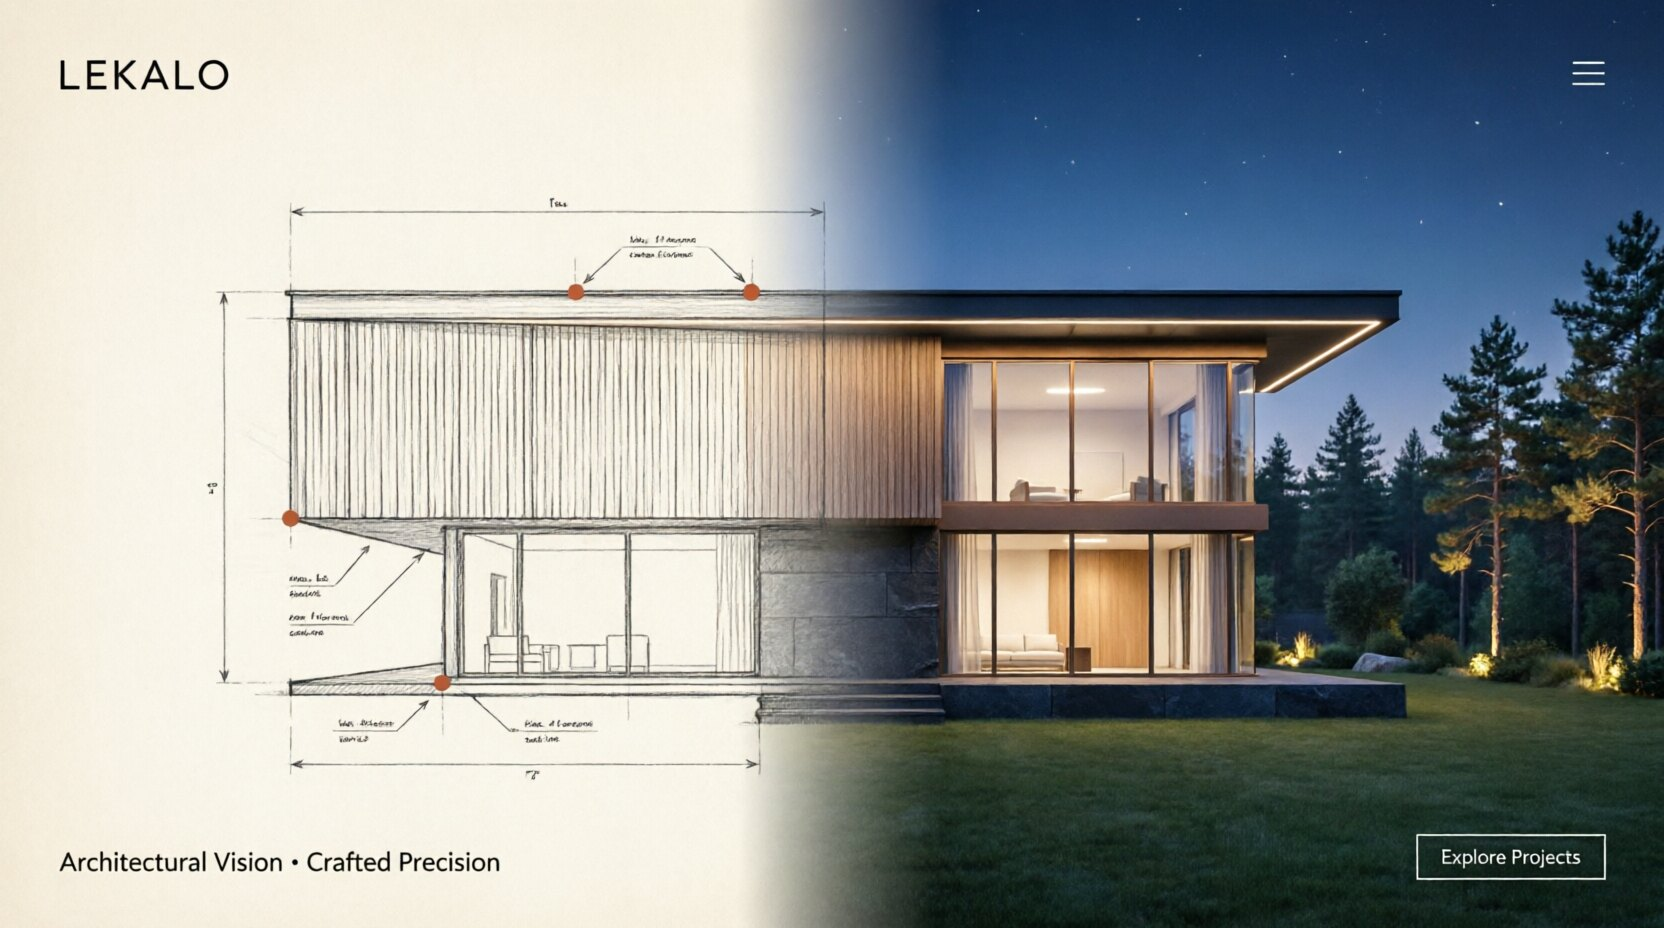
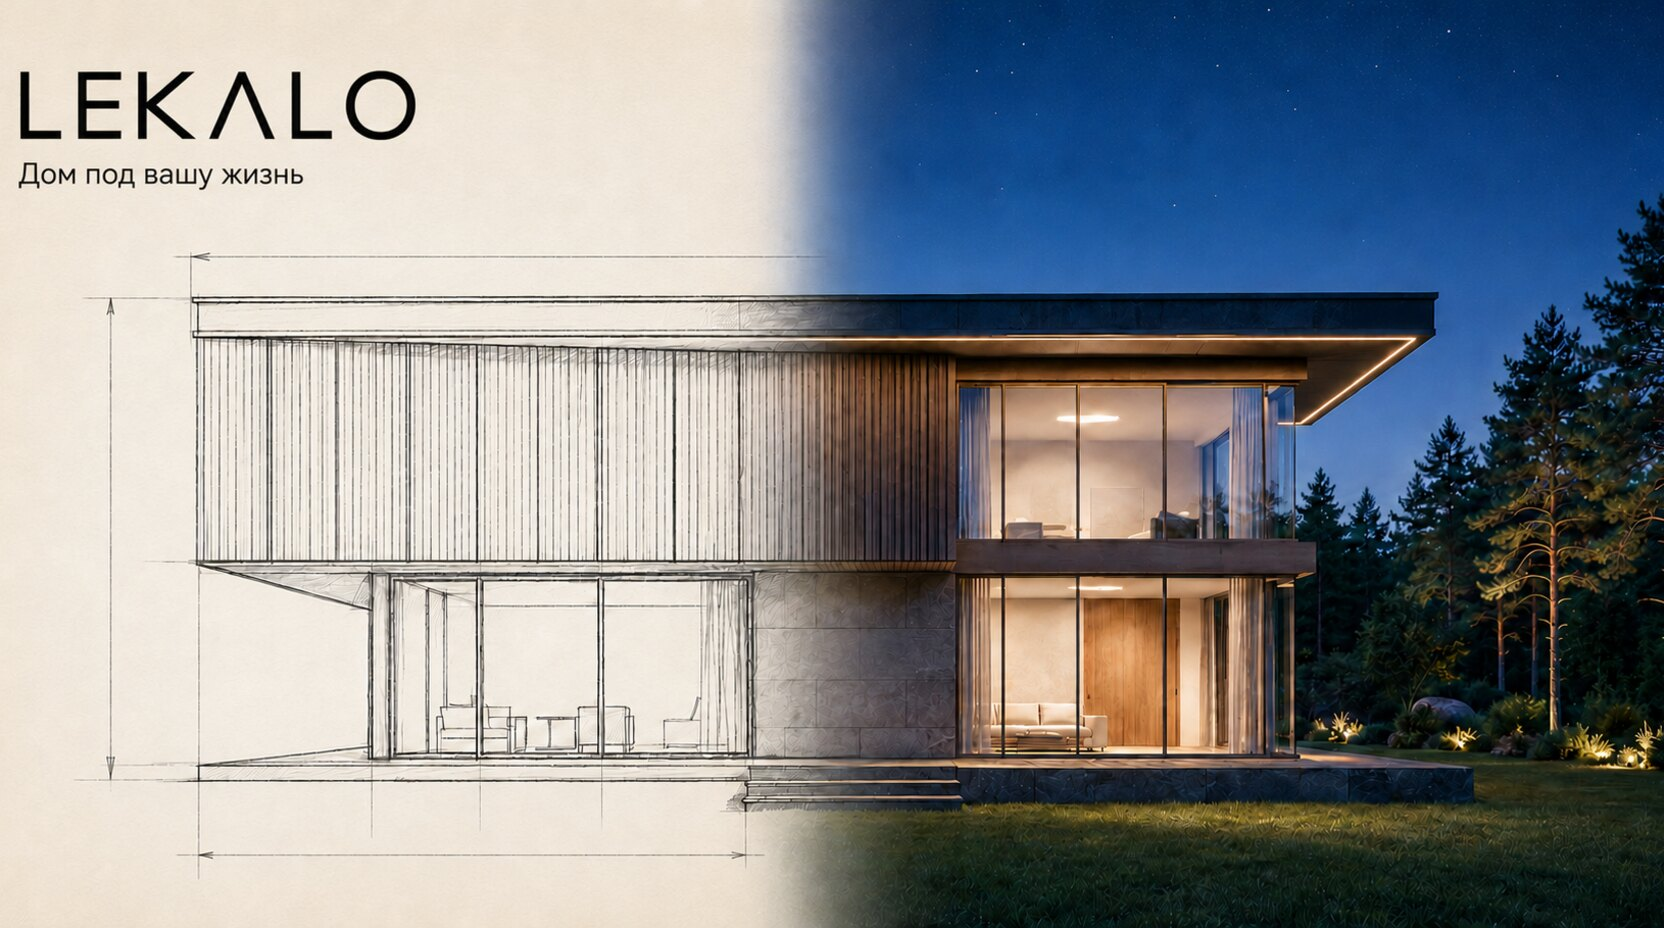
Restore original Telegram preview contract

diff --git a/index.html b/index.html
@@ -24,18 +24,11 @@
   <meta property="og:title" content="LEKALO — частная архитектура и управление строительством">
   <meta property="og:description" content="Индивидуальные загородные дома в Москве и Московской области — от архитектурной концепции до реализации одной командой.">
   <meta property="og:url" content="https://lklo.ru/">
-  <meta property="og:image" content="https://lklo.ru/assets/og-lekalo-home-v4.jpg">
-  <meta property="og:image:url" content="https://lklo.ru/assets/og-lekalo-home-v4.jpg">
-  <meta property="og:image:secure_url" content="https://lklo.ru/assets/og-lekalo-home-v4.jpg">
-  <meta property="og:image:type" content="image/jpeg">
-  <meta property="og:image:width" content="1200">
-  <meta property="og:image:height" content="630">
-  <meta property="og:image:alt" content="LEKALO — от архитектурного проекта к готовому премиальному дому">
+  <meta property="og:image" content="https://lklo.ru/assets/hero-concept.jpg">
+  <meta property="og:image:width" content="1664">
+  <meta property="og:image:height" content="928">
+  <meta property="og:image:alt" content="Современный загородный дом — концепция LEKALO">
   <meta name="twitter:card" content="summary_large_image">
-  <meta name="twitter:title" content="LEKALO — частная архитектура и управление строительством">
-  <meta name="twitter:description" content="Индивидуальные загородные дома в Москве и Московской области — от архитектурной концепции до реализации одной командой.">
-  <meta name="twitter:image" content="https://lklo.ru/assets/og-lekalo-home-v4.jpg">
-  <meta name="twitter:image:alt" content="LEKALO — от архитектурного проекта к готовому премиальному дому">
   <link rel="icon" type="image/x-icon" href="/favicon.ico">
   <link rel="apple-touch-icon" href="assets/apple-touch-icon.svg">
   <link rel="mask-icon" href="assets/favicon.svg" color="#182321">
@@ -48,7 +41,7 @@
     "name": "LEKALO",
     "url": "https://lklo.ru/",
     "logo": "https://lklo.ru/assets/logo.svg",
-    "image": "https://lklo.ru/assets/og-lekalo-home-v4.jpg",
+    "image": "https://lklo.ru/assets/hero-concept.jpg",
     "description": "Частная архитектура и управление созданием домов от концепции до ввода в эксплуатацию.",
     "areaServed": [
       {"@type": "City", "name": "Москва"},

diff --git a/generalnyj-podryad/index.html b/generalnyj-podryad/index.html
@@ -17,18 +17,9 @@
   <meta property="og:title" content="Технический заказчик в строительстве загородных домов — LEKALO">
   <meta property="og:description" content="Представляем интересы владельца и управляем проектом, подрядчиками, сроками, бюджетом и качеством до ввода дома в эксплуатацию.">
   <meta property="og:url" content="https://lklo.ru/generalnyj-podryad/">
-  <meta property="og:image" content="https://lklo.ru/assets/og-lekalo-home-v4.jpg">
-  <meta property="og:image:url" content="https://lklo.ru/assets/og-lekalo-home-v4.jpg">
-  <meta property="og:image:secure_url" content="https://lklo.ru/assets/og-lekalo-home-v4.jpg">
-  <meta property="og:image:type" content="image/jpeg">
-  <meta property="og:image:width" content="1200">
-  <meta property="og:image:height" content="630">
-  <meta property="og:image:alt" content="LEKALO — от архитектурного проекта к готовому премиальному дому">
+  <meta property="og:image" content="https://lklo.ru/assets/hero-concept.jpg">
+  <meta property="og:image:alt" content="Современный загородный дом — архитектурная концепция LEKALO">
   <meta name="twitter:card" content="summary_large_image">
-  <meta name="twitter:title" content="Технический заказчик в строительстве загородных домов — LEKALO">
-  <meta name="twitter:description" content="Представляем интересы владельца и управляем проектом, подрядчиками, сроками, бюджетом и качеством до ввода дома в эксплуатацию.">
-  <meta name="twitter:image" content="https://lklo.ru/assets/og-lekalo-home-v4.jpg">
-  <meta name="twitter:image:alt" content="LEKALO — от архитектурного проекта к готовому премиальному дому">
   <link rel="icon" type="image/x-icon" href="/favicon.ico">
   <link rel="apple-touch-icon" href="/assets/apple-touch-icon.svg">
   <title>Технический заказчик в строительстве домов в Москве — LEKALO</title>

diff --git a/proektirovanie-domov/index.html b/proektirovanie-domov/index.html
@@ -17,18 +17,9 @@
   <meta property="og:title" content="Индивидуальное проектирование загородных домов — LEKALO">
   <meta property="og:description" content="Архитектура, конструктив и инженерия как единая система — от сценария жизни до документации для строительства.">
   <meta property="og:url" content="https://lklo.ru/proektirovanie-domov/">
-  <meta property="og:image" content="https://lklo.ru/assets/og-lekalo-home-v4.jpg">
-  <meta property="og:image:url" content="https://lklo.ru/assets/og-lekalo-home-v4.jpg">
-  <meta property="og:image:secure_url" content="https://lklo.ru/assets/og-lekalo-home-v4.jpg">
-  <meta property="og:image:type" content="image/jpeg">
-  <meta property="og:image:width" content="1200">
-  <meta property="og:image:height" content="630">
-  <meta property="og:image:alt" content="LEKALO — от архитектурного проекта к готовому премиальному дому">
+  <meta property="og:image" content="https://lklo.ru/assets/hero-concept.jpg">
+  <meta property="og:image:alt" content="Современный загородный дом — архитектурная концепция LEKALO">
   <meta name="twitter:card" content="summary_large_image">
-  <meta name="twitter:title" content="Индивидуальное проектирование загородных домов — LEKALO">
-  <meta name="twitter:description" content="Архитектура, конструктив и инженерия как единая система — от сценария жизни до документации для строительства.">
-  <meta name="twitter:image" content="https://lklo.ru/assets/og-lekalo-home-v4.jpg">
-  <meta name="twitter:image:alt" content="LEKALO — от архитектурного проекта к готовому премиальному дому">
   <link rel="icon" type="image/x-icon" href="/favicon.ico">
   <link rel="apple-touch-icon" href="/assets/apple-touch-icon.svg">
   <title>Индивидуальное проектирование загородных домов в Москве — LEKALO</title>

diff --git a/stroitelnyy-kontrol/index.html b/stroitelnyy-kontrol/index.html
@@ -17,18 +17,9 @@
   <meta property="og:title" content="Строительный контроль и авторский надзор — LEKALO">
   <meta property="og:description" content="Контроль качества строительства, соответствия проекту и сохранения архитектурного замысла загородного дома.">
   <meta property="og:url" content="https://lklo.ru/stroitelnyy-kontrol/">
-  <meta property="og:image" content="https://lklo.ru/assets/og-lekalo-home-v4.jpg">
-  <meta property="og:image:url" content="https://lklo.ru/assets/og-lekalo-home-v4.jpg">
-  <meta property="og:image:secure_url" content="https://lklo.ru/assets/og-lekalo-home-v4.jpg">
-  <meta property="og:image:type" content="image/jpeg">
-  <meta property="og:image:width" content="1200">
-  <meta property="og:image:height" content="630">
-  <meta property="og:image:alt" content="LEKALO — от архитектурного проекта к готовому премиальному дому">
+  <meta property="og:image" content="https://lklo.ru/assets/hero-concept.jpg">
+  <meta property="og:image:alt" content="Современный загородный дом — архитектурная концепция LEKALO">
   <meta name="twitter:card" content="summary_large_image">
-  <meta name="twitter:title" content="Строительный контроль и авторский надзор — LEKALO">
-  <meta name="twitter:description" content="Контроль качества строительства, соответствия проекту и сохранения архитектурного замысла загородного дома.">
-  <meta name="twitter:image" content="https://lklo.ru/assets/og-lekalo-home-v4.jpg">
-  <meta name="twitter:image:alt" content="LEKALO — от архитектурного проекта к готовому премиальному дому">
   <link rel="icon" type="image/x-icon" href="/favicon.ico">
   <link rel="apple-touch-icon" href="/assets/apple-touch-icon.svg">
   <title>Строительный контроль и авторский надзор в Москве — LEKALO</title>

diff --git a/stoimost-stroitelstva-doma/index.html b/stoimost-stroitelstva-doma/index.html
@@ -17,18 +17,9 @@
   <meta property="og:title" content="Стоимость строительства загородного дома — LEKALO">
   <meta property="og:description" content="Понятная модель бюджета: от предварительной оценки до детальной сметы по проекту и спецификациям.">
   <meta property="og:url" content="https://lklo.ru/stoimost-stroitelstva-doma/">
-  <meta property="og:image" content="https://lklo.ru/assets/og-lekalo-home-v4.jpg">
-  <meta property="og:image:url" content="https://lklo.ru/assets/og-lekalo-home-v4.jpg">
-  <meta property="og:image:secure_url" content="https://lklo.ru/assets/og-lekalo-home-v4.jpg">
-  <meta property="og:image:type" content="image/jpeg">
-  <meta property="og:image:width" content="1200">
-  <meta property="og:image:height" content="630">
-  <meta property="og:image:alt" content="LEKALO — от архитектурного проекта к готовому премиальному дому">
+  <meta property="og:image" content="https://lklo.ru/assets/hero-concept.jpg">
+  <meta property="og:image:alt" content="Современный загородный дом — архитектурная концепция LEKALO">
   <meta name="twitter:card" content="summary_large_image">
-  <meta name="twitter:title" content="Стоимость строительства загородного дома — LEKALO">
-  <meta name="twitter:description" content="Понятная модель бюджета: от предварительной оценки до детальной сметы по проекту и спецификациям.">
-  <meta name="twitter:image" content="https://lklo.ru/assets/og-lekalo-home-v4.jpg">
-  <meta name="twitter:image:alt" content="LEKALO — от архитектурного проекта к готовому премиальному дому">
   <link rel="icon" type="image/x-icon" href="/favicon.ico">
   <link rel="apple-touch-icon" href="/assets/apple-touch-icon.svg">
   <title>Стоимость строительства загородного дома под ключ — LEKALO</title>

diff --git a/stroitelstvo-domov-pod-klyuch/index.html b/stroitelstvo-domov-pod-klyuch/index.html
@@ -22,18 +22,9 @@
   <meta property="og:title" content="Строительство премиальных домов под ключ — LEKALO">
   <meta property="og:description" content="Дом полного цикла: архитектура, инженерия и строительство в одном контуре ответственности.">
   <meta property="og:url" content="https://lklo.ru/stroitelstvo-domov-pod-klyuch/">
-  <meta property="og:image" content="https://lklo.ru/assets/og-lekalo-home-v4.jpg">
-  <meta property="og:image:url" content="https://lklo.ru/assets/og-lekalo-home-v4.jpg">
-  <meta property="og:image:secure_url" content="https://lklo.ru/assets/og-lekalo-home-v4.jpg">
-  <meta property="og:image:type" content="image/jpeg">
-  <meta property="og:image:width" content="1200">
-  <meta property="og:image:height" content="630">
-  <meta property="og:image:alt" content="LEKALO — от архитектурного проекта к готовому премиальному дому">
+  <meta property="og:image" content="https://lklo.ru/assets/hero-concept.jpg">
+  <meta property="og:image:alt" content="Современный загородный дом — архитектурная концепция LEKALO">
   <meta name="twitter:card" content="summary_large_image">
-  <meta name="twitter:title" content="Строительство премиальных домов под ключ — LEKALO">
-  <meta name="twitter:description" content="Дом полного цикла: архитектура, инженерия и строительство в одном контуре ответственности.">
-  <meta name="twitter:image" content="https://lklo.ru/assets/og-lekalo-home-v4.jpg">
-  <meta name="twitter:image:alt" content="LEKALO — от архитектурного проекта к готовому премиальному дому">
   <link rel="icon" type="image/x-icon" href="/favicon.ico">
   <link rel="apple-touch-icon" href="/assets/apple-touch-icon.svg">
   <title>Строительство премиальных домов под ключ в Москве — LEKALO</title>

diff --git a/server.js b/server.js
@@ -350,10 +350,11 @@ const server = http.createServer(async (req, res) => {
     ? Buffer.from(ensureAnalytics(source.toString('utf8')), 'utf8')
     : source;
   const isSearchControlFile = url.pathname === '/robots.txt' || url.pathname === '/sitemap.xml';
+  const isSocialPreviewImage = url.pathname === '/assets/hero-concept.jpg';
   res.writeHead(200, {
     'Content-Type': type,
     'Content-Length': String(payload.length),
-    'Cache-Control': path.extname(file).toLowerCase() === '.html' || isSearchControlFile
+    'Cache-Control': path.extname(file).toLowerCase() === '.html' || isSearchControlFile || isSocialPreviewImage
       ? 'public, max-age=0, must-revalidate'
       : 'public, max-age=31536000, immutable',
     'X-Content-Type-Options': 'nosniff',
